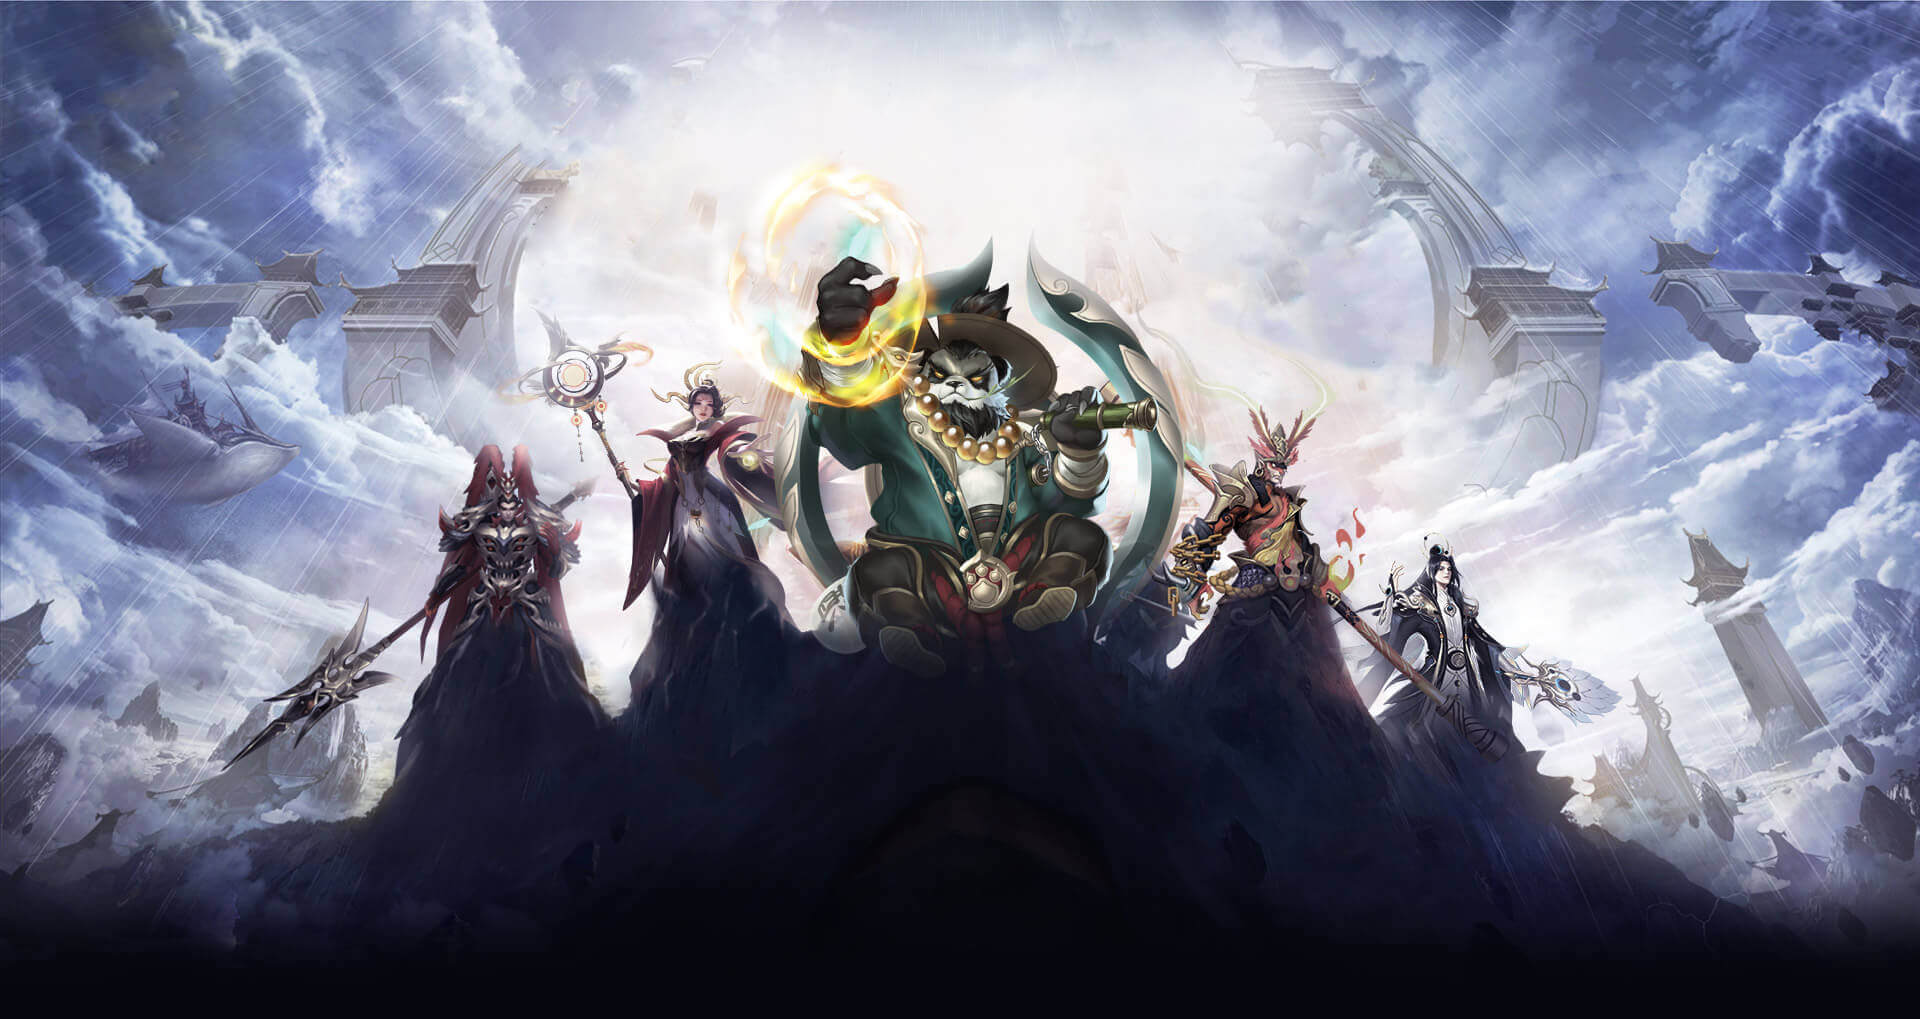
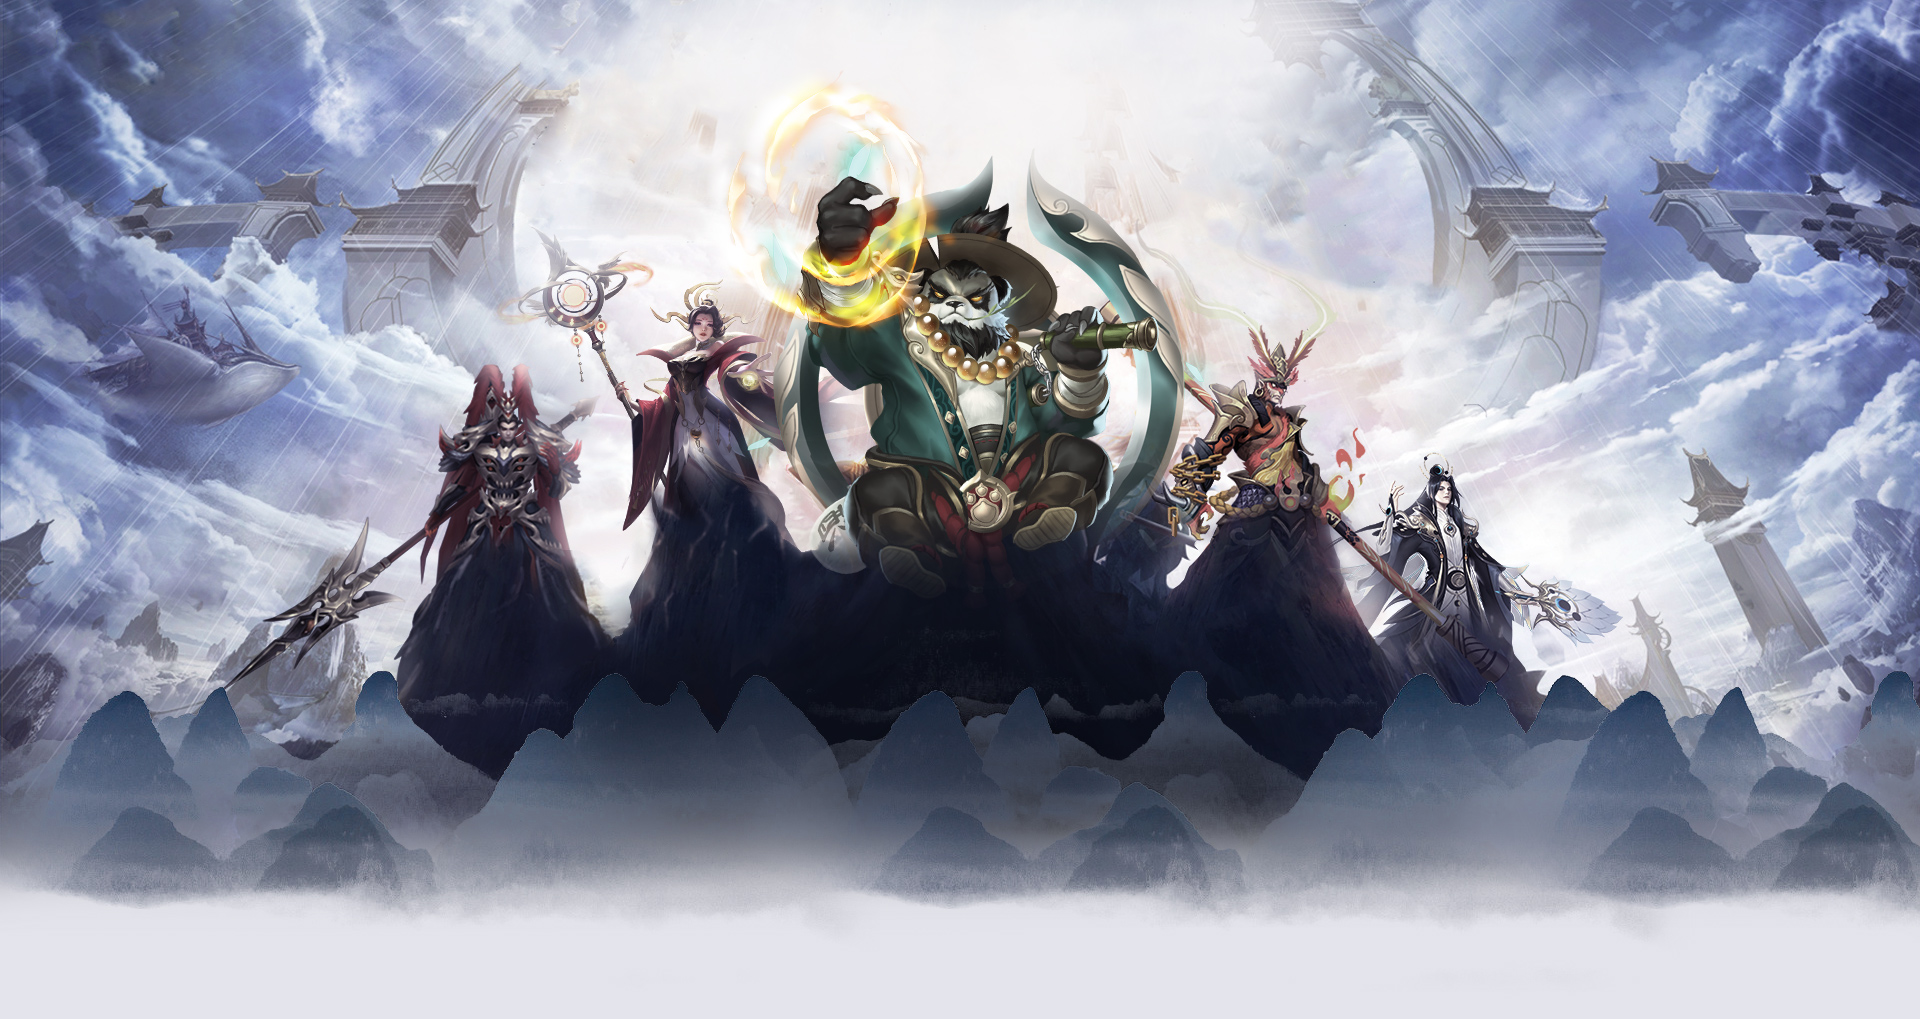
update bg all

diff --git a/sass/9main-mb.scss b/sass/9main-mb.scss
@@ -5,7 +5,7 @@ $fontfam: 'Roboto Condensed', Roboto, sans-serif;
 @import 'embed';
 :root {
   --color1: #9d9bf9;
-  --color2: #05060d;
+  --color2: #333333;
   --color3: #808080;
   --colorok: #31da70;
   --colorerror: #ff6d6d;
@@ -21,7 +21,7 @@ $fontfam: 'Roboto Condensed', Roboto, sans-serif;
 .gold {color: var(--color1) !important;}
 .blue {color: var(--colorlink) !important;}
 .main {color: var(--color1) !important;}
-body {font-family: $fontfam;font-size: 14px;font-weight: 400;color: var(--whitecolor);background-image:url(../images/bgp1.jpg), url(../images/bg-bot.jpg);background-size:200% auto, 200% auto;background-repeat: no-repeat;background-position: top center, bottom center;background-color:var(--color2);}
+body {font-family: $fontfam;font-size: 14px;font-weight: 400;color: var(--color2);background-image:url(../images/bgp1.jpg), url(../images/bg-bot.jpg);background-size:200% auto, 200% auto;background-repeat: no-repeat;background-position: center calc(50px * var(--ratio)), bottom center;background-color:#e3e4eb;}
 * {outline: none;box-sizing: border-box;padding: 0;margin: 0;}
 a {text-decoration: none;transition: all 0.3s ease-in-out;}
 button {transition: all 0.7s ease-in-out !important;}
@@ -37,7 +37,7 @@ main {position: relative;height: 100vh;}
     a.header-logo{display: block;background:transparent;
       img{max-width:50%;width: 30%;}
     }
-    .btnvideo{position: relative;display: block;background: transparent;border:none;outline:none;margin-top:30vh;
+    .btnvideo{position: relative;display: block;background: transparent;border:none;outline:none;margin-top:22vh;
       img{opacity: 1;max-width:100%;height: auto;}
     }
   }
@@ -45,7 +45,7 @@ main {position: relative;height: 100vh;}
 .btnlist{text-align: center;z-index: 15;left: 0;top: calc(130px * var(--ratio));color:#1d3355;filter: drop-shadow(0px 0px 1px #ffffff);width: 50px;height: 50px;display: block;background: transparent;
   i{font-size: 2rem;text-align: left;}
 }
-.offcanvas{color: var(--whitecolor);max-width: 60%;background-color:#5d5a8f;background-image: url(../images/bg-bot.jpg);background-repeat: no-repeat;background-size: cover;background-blend-mode: overlay;
+.offcanvas{color: var(--whitecolor);max-width: 60%;background-color:#363450;background-image: url(../images/bg-bot.jpg);background-repeat: no-repeat;background-size: cover;background-blend-mode: multiply;
   .btn-close{filter: invert(1);}
   .offcanvas-body{
     .icong{display: block;margin: 0 auto 1rem;max-width: 100%;}
@@ -85,7 +85,7 @@ main {position: relative;height: 100vh;}
   .slider{
     img{width: 100%;}
   }
-  .block-news{position: relative;background-color: #37367073;
+  .block-news{position: relative;background: #ffffffb3;
     a.xemlisttin{position: absolute;top:2px;right:20px;color: var(--whitecolor);font-size: 2rem;
       &:hover{color: var(--color1);}
     }
@@ -108,12 +108,12 @@ main {position: relative;height: 100vh;}
       .tab-pane{
         .list-group{list-style: square;
           li{background:transparent;display:flex;padding-left:0;
-            a{color: var(--whitecolor);
+            a{color: var(--color2);
               .title-news{display: -webkit-box;-webkit-line-clamp: 2;-webkit-box-orient: vertical;overflow: hidden;text-overflow: ellipsis;word-break: break-word;font-weight:500; }
               .datetime{color: var(--color3);font-size: 13px;}
               &:hover{color: var(--color1);}
             }
-            &:before { content:"\25aa";margin-right: 0.3rem;color: #ffffff47;}
+            &:before { content:"\25aa";margin-right: 0.3rem;color:rgb(16 14 24 / 50%);}
           }
         }
       }
@@ -139,7 +139,7 @@ main {position: relative;height: 100vh;}
 }
 .footer{min-height: 200px;
   .footer-content{display: flex;flex-direction: column;align-items: center;justify-content: center;
-    p{line-height: 1.3;font-weight: 500;font-size: 13px;}
+    p{line-height: 1.3;font-weight: 500;font-size: 13px;color: var(--color2);}
   }
 }
 

diff --git a/sass/9main-mb.css b/sass/9main-mb.css
@@ -109,7 +109,7 @@
 
 :root {
   --color1: #9d9bf9;
-  --color2: #05060d;
+  --color2: #333333;
   --color3: #808080;
   --colorok: #31da70;
   --colorerror: #ff6d6d;
@@ -145,12 +145,12 @@ body {
   font-family: "Roboto Condensed", Roboto, sans-serif;
   font-size: 14px;
   font-weight: 400;
-  color: var(--whitecolor);
+  color: var(--color2);
   background-image: url(../images/bgp1.jpg), url(../images/bg-bot.jpg);
   background-size: 200% auto, 200% auto;
   background-repeat: no-repeat;
-  background-position: top center, bottom center;
-  background-color: var(--color2);
+  background-position: center calc(50px * var(--ratio)), bottom center;
+  background-color: #e3e4eb;
 }
 
 * {
@@ -228,7 +228,7 @@ main {
   background: transparent;
   border: none;
   outline: none;
-  margin-top: 30vh;
+  margin-top: 22vh;
 }
 .header .header-center .btnvideo img {
   opacity: 1;
@@ -256,11 +256,11 @@ main {
 .offcanvas {
   color: var(--whitecolor);
   max-width: 60%;
-  background-color: #5d5a8f;
+  background-color: #363450;
   background-image: url(../images/bg-bot.jpg);
   background-repeat: no-repeat;
   background-size: cover;
-  background-blend-mode: overlay;
+  background-blend-mode: multiply;
 }
 .offcanvas .btn-close {
   filter: invert(1);
@@ -336,7 +336,7 @@ main {
 }
 .maincontent .block-news {
   position: relative;
-  background-color: #37367073;
+  background: rgba(255, 255, 255, 0.7019607843);
 }
 .maincontent .block-news a.xemlisttin {
   position: absolute;
@@ -403,7 +403,7 @@ main {
   padding-left: 0;
 }
 .maincontent .block-news .tab-content .tab-pane .list-group li a {
-  color: var(--whitecolor);
+  color: var(--color2);
 }
 .maincontent .block-news .tab-content .tab-pane .list-group li a .title-news {
   display: -webkit-box;
@@ -424,7 +424,7 @@ main {
 .maincontent .block-news .tab-content .tab-pane .list-group li:before {
   content: "▪";
   margin-right: 0.3rem;
-  color: #ffffff47;
+  color: rgba(16, 14, 24, 0.5);
 }
 .maincontent .block-news .listtin .tab-pane {
   min-height: 800px;
@@ -463,6 +463,7 @@ main {
   line-height: 1.3;
   font-weight: 500;
   font-size: 13px;
+  color: var(--color2);
 }
 
 .nofixed {

diff --git a/index-cg-mb.html b/index-cg-mb.html
@@ -269,9 +269,10 @@
 							<!-- Additional required wrapper -->
 							<div class="swiper-wrapper">
 							<!-- Slides -->
-							<div class="swiper-slide"><img src="images/banner-bot.png" alt=""></div>
-							<div class="swiper-slide"><img src="images/banner-bot.png" alt=""></div>
-							<div class="swiper-slide"><img src="images/banner-bot.png" alt=""></div>
+							<div class="swiper-slide"><img src="images/slider/1.jpg" alt=""></div>
+							<div class="swiper-slide"><img src="images/slider/2.jpg" alt=""></div>
+							<div class="swiper-slide"><img src="images/slider/3.jpg" alt=""></div>
+							<div class="swiper-slide"><img src="images/slider/4.jpg" alt=""></div>
 							</div>
 							<!-- If we need pagination -->
 							<div class="swiper-pagination"></div>
@@ -300,6 +301,9 @@
 	const swiper = new Swiper('.swiper', {
 		// Optional parameters
 		loop: true,
+		autoplay: {
+			delay: 2000,
+			},
 
 		// If we need pagination
 		pagination: {
